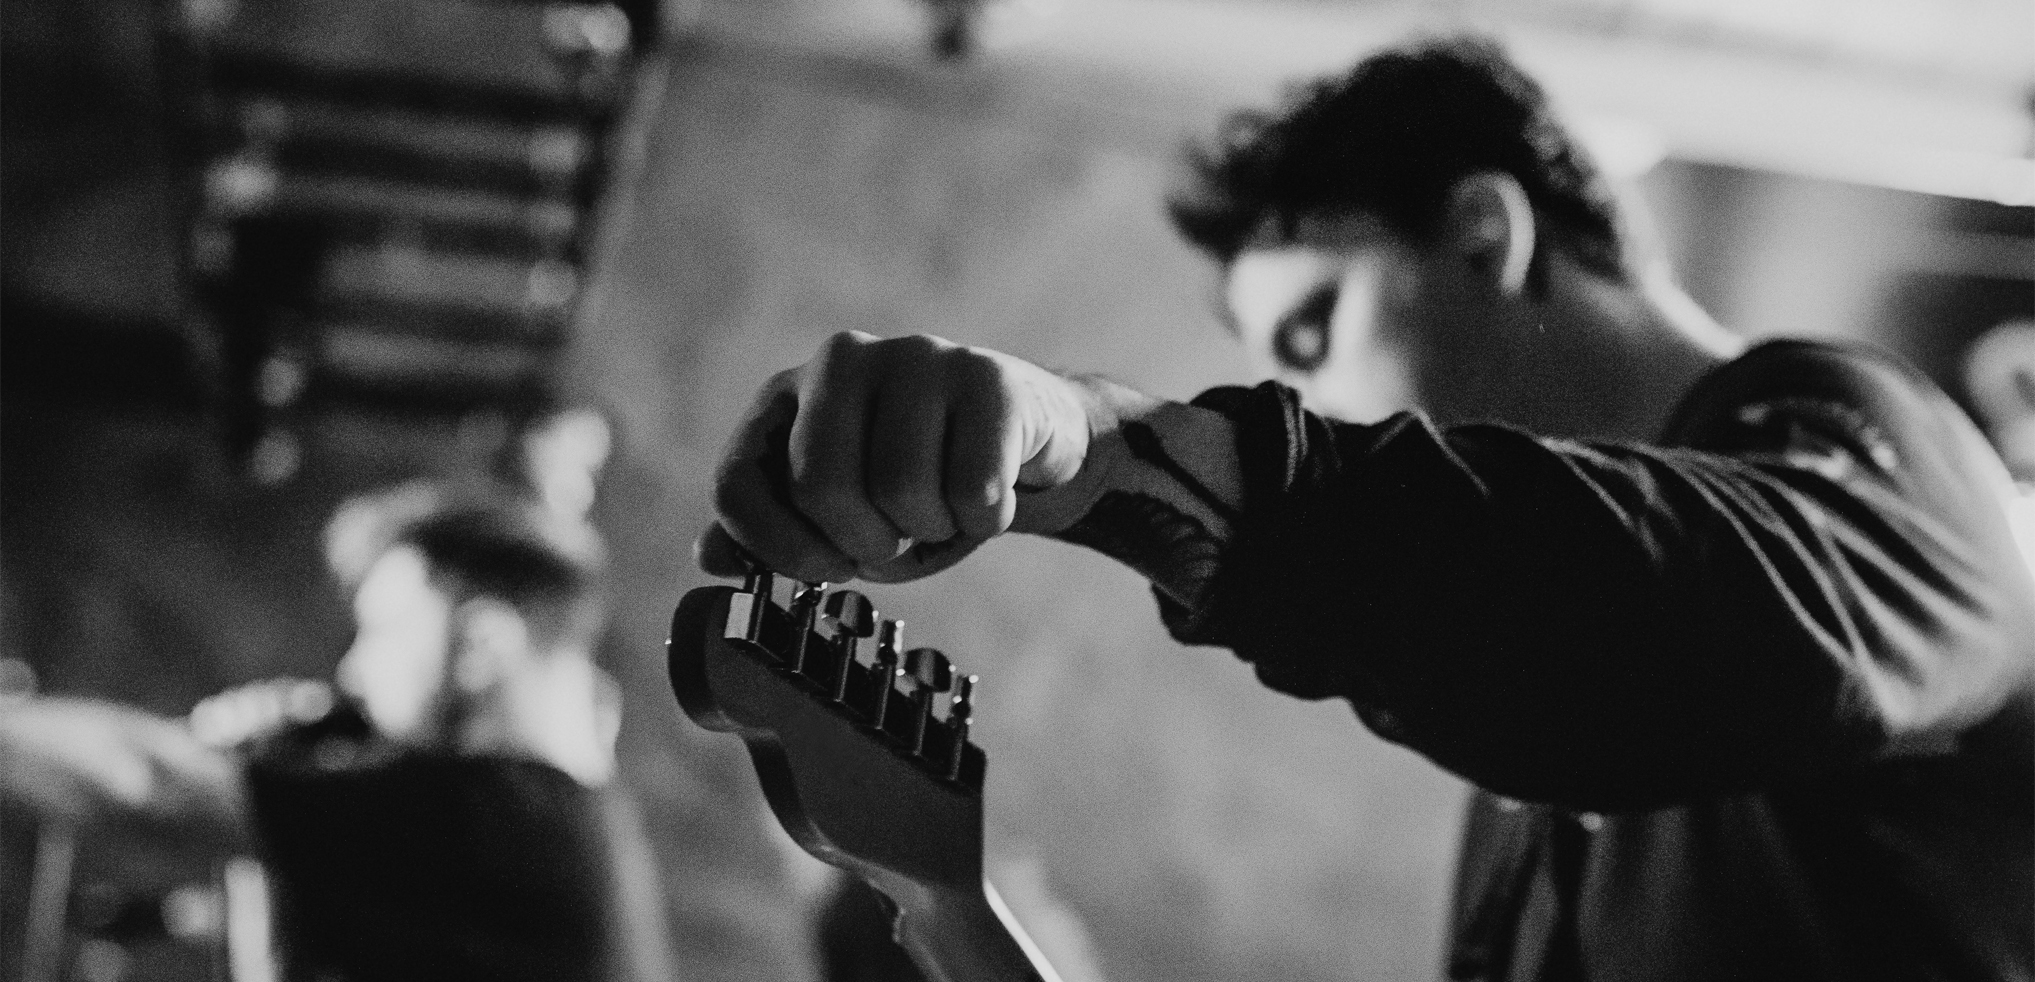
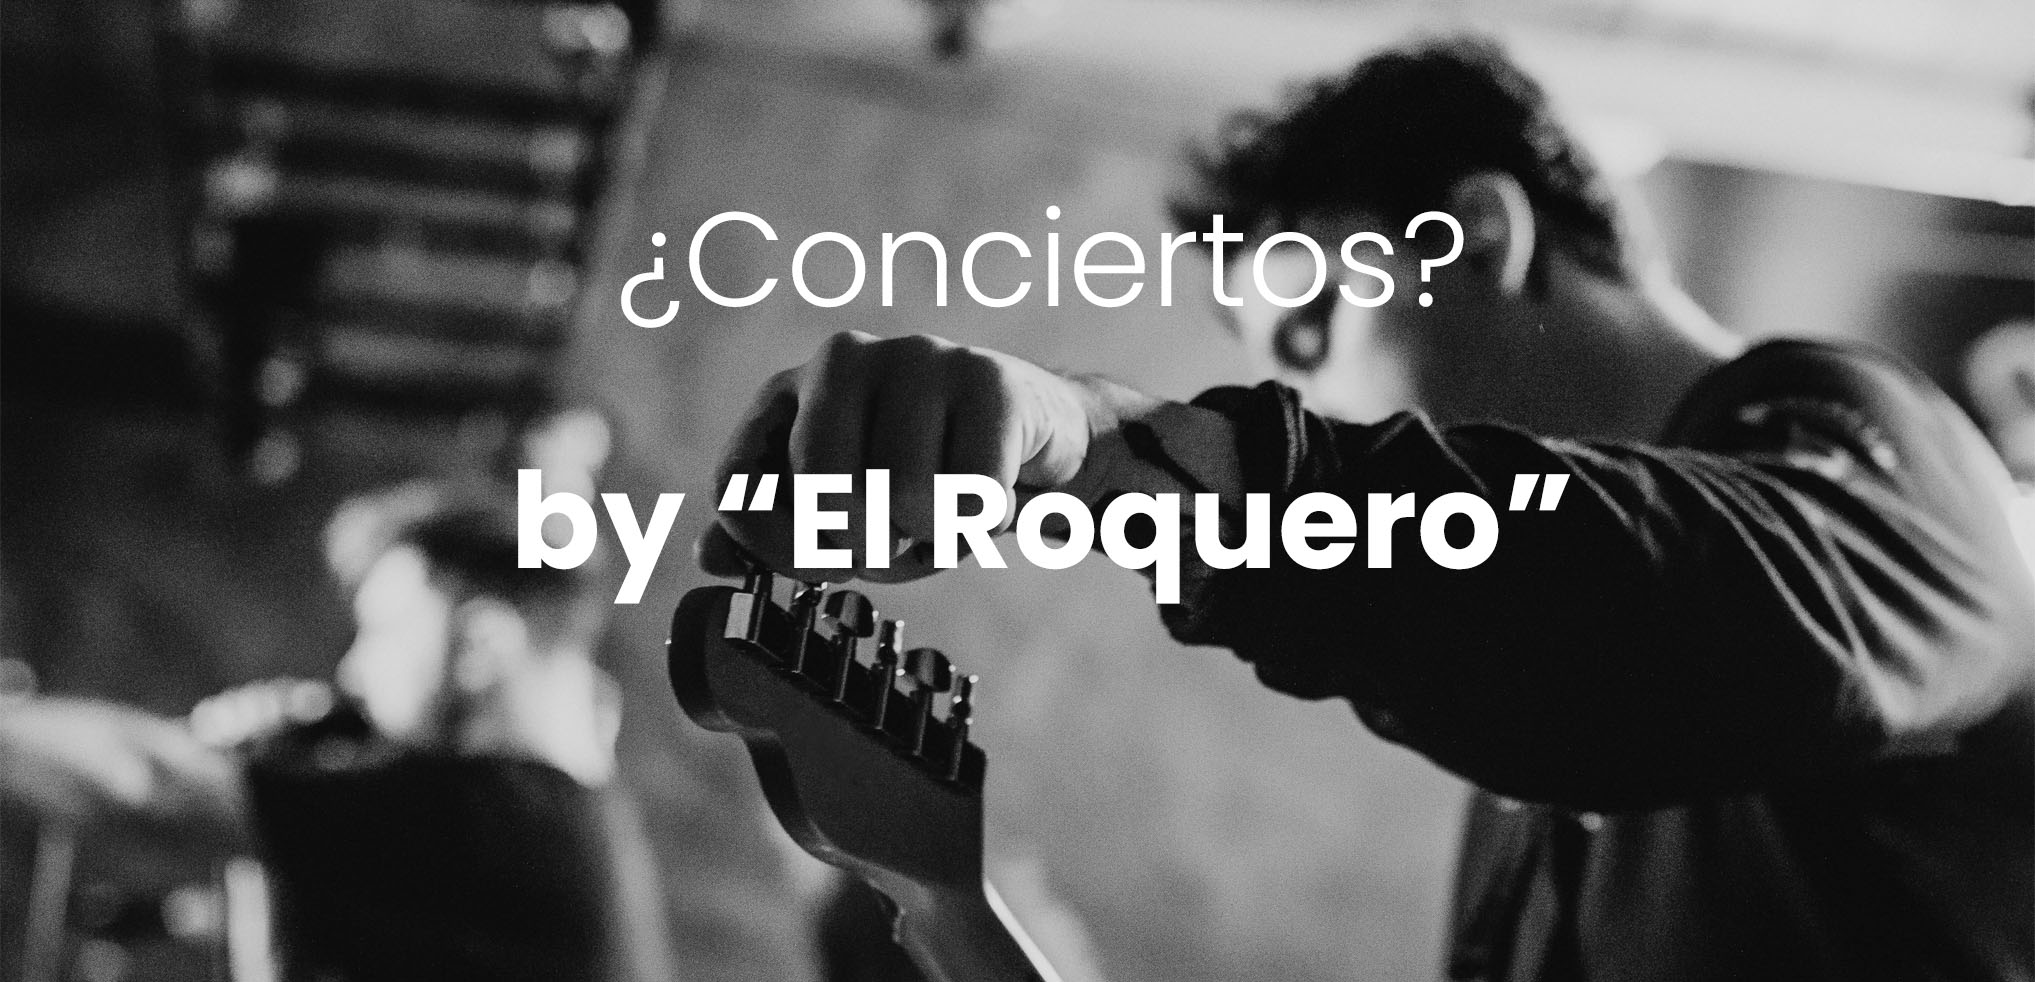
update

Changed region(s): [[0.2477, 0.4582, 0.774, 0.611], [0.3096, 0.2138, 0.743, 0.336]]

diff --git a/src/blog.html b/src/blog.html
@@ -4,93 +4,104 @@
   <head>
     <meta charset="utf-8">
     <meta name="viewport" content="width=device-width, initial-scale=1.0">
+    <link rel="preconnect" href="https://fonts.gstatic.com">
+<link href="https://fonts.googleapis.com/css2?family=Limelight&family=Montserrat:wght@100;400;500;700&display=swap" rel="stylesheet">
     <link rel="stylesheet" type="text/css" href="./assets/styles/main.scss"><!-- do not remove this line! -->
     <title>Blog</title>
   </head>
   <body class="main-blog">
-      <header class="header-nav">
-<div>
-    <a href="index.html"><div class="logo-container-b">
+    <header >
+        <div>
+            <a href="index.html">
+                <div class="grid grid-cols-3">
+                    <div></div>
+                    <div class="flex">
+                        <div class="m-auto mr-0"><img class="h-20 min-h-full" src="assets/images/image-from-rawpixel-id-2888725-png.png" alt=""></div>
+                        <div class="m-auto ml-0 "><h1 class="text-3xl font-Limelight">Rockers</h1></div>
+                    </div>
+                </div>
+                </a>
+        </div>
+            <nav class="grid grid-cols-4 justify-items-center m-5">
+                <div></div>
+                <a class="nav-b" href="index.html">MIEMBROS</a>
+                <a class="nav-b" href="blog.html">BLOG</a>
+                <div></div>
 
-            <img class="logo" src="assets/images/image-from-rawpixel-id-2888725-png.png" alt="">
-            <h1 class="logo-title">Rockers</h1>
-
-
-    </div></a>
-    <nav class="nav-b">
-        <a class="nav-b" href="index.html">MIEMBROS</a>
-        <a class="nav-b" href="blog.html">BLOG</a>
-
-    </nav>
-</div>
-      </header>
+            </nav>
+        </div>
+              </header>
 
     <main>
 
 
-        <div class="container-img">
-          <img class="img-blog" src="assets/images/image-from-rawpixel-id-2273383-jpeg.jpg" alt="blog">
-          <div class="center-img">¿Conciertos?</div>
-          <div class="subcenter-img">by El Roquero</div>
+        <div class="mb-11">
+          <img class="img-blog" src="assets/images/image-from-rawpixel-id-2273383-jpeg (1).jpg" alt="blog">
         </div>
 
-        <div class="container-blog">
-            <p>
+        <div class="lg:mx-80 md:mx-40 sm:mx-15">
+            <p class="my-5">
                 A través de un comunicado en sus redes sociales, Robe Iniesta ha anunciado a los fans de Extremoduro que la gira de despedida del grupo queda cancelada definitivamente: “Dije que tocaríamos por cojones, pero ahora ya no estoy tan seguro”. La idea de que estos conciertos se retomen ha quedado muy en el aire: “No tiene sentido volver a poner fechas para 2022 sin tener la más mínima seguridad de que se vaya a poder hacer”.
             </p>
-            <p>
+            <p class="my-5">
                 Una de las bombas del comunicado, sin duda, es el nuevo disco del cantante de la banda que estaba previsto que viera la luz en octubre del año pasado, después del final de la gira y, que debido a los aplazamientos que ha sufrido esta, Robe ha guardado en secreto hasta ahora: “¿Hasta cuando lo vamos a dejar guardado, otro año o quién sabe si más aún?” Ha confirmado que sacará su nuevo trabajo durante la primavera y que será necesario adaptarse a las circunstancias realizando conciertos más pequeños que cumplan con la normativa de la Covid-19.
             </p>
 
-            <img class="img-blog-container" src="assets/images/image-from-rawpixel-id-1514-jpeg.jpg" alt="">
+            <img class="my-10" src="assets/images/image-from-rawpixel-id-1514-jpeg.jpg" alt="">
 
-            <p>
+            <p class="my-5">
                 A lo largo del día de hoy, la noticia de la cancelación de la gira de Extremoduro ha corrido como la pólvora. Infinidad de medios se han hecho eco y la banda ha llegado a ser Trendic Topic en España. Una noticia triste para todos los fans del grupo y para la música española en general.
             </p>
-            <figure>
-                <blockquote class="blockquote">
-                  <p>La música es mi religión.</p>
-                </blockquote>
-                <figcaption class="blockquote-footer">
-                    Jimmy Hendrix <cite title="Source Title">guitarrista y cantante</cite>
-                </figcaption>
-              </figure>
 
-              <p>
+              <div class="min-w-0 p-4 bg-white rounded-lg shadow-xs dark:bg-gray-800 border">
+                <h4 class="mb-4 font-semibold text-gray-600 dark:text-gray-300">
+                    La música es mi religión.
+                </h4>
+                <p class="text-gray-600 dark:text-gray-400">
+                    <figcaption class="blockquote-footer">
+                        Jimmy Hendrix. <cite title="Source Title">guitarrista y cantante</cite>
+                    </figcaption>
+                </p>
+              </div>
+
+
+              <p class="my-5">
                 Pero, sin lugar a duda, lo más comentado y sorprendente ha sido el comunicado que ha ofrecido Live Nation, la empresa promotora de la gira, dónde explica que la decisión ha sido tomada unilateralmente por Robe Iniesta: “Queremos manifestaros nuestra sorpresa e incredulidad ante el comunicado unilateral emitido por Robe frente a los compromisos firmes de Extremoduro y su representante… cuando en el mismo anuncia la publicación de su disco y conciertos en solitario”. Añaden también que “estamos trabajando intensamente para aclarar la situación”.
             </p>
 
-            <p>
+            <p class="my-5">
                 Esta controversia surgida entre la banda extremeña y la promotora Live Nation preocupa mucho a los fans que compraron entradas para los espectáculos, ya que en ningún momento se menciona el posible reembolso del dinero. Muchos ya se han puesto manos a la obra y han escrito formalmente a la empresa responsable para pedir explicaciones.
             </p>
 
         </div>
 
     </main>
-    <footer>
-        <hr>
-        <div class="subfooter">
-            <p>Contacta con nosotros para contrataciones</p>
-        </div>
-        <hr>
-        <div class="nav-b">
+    <hr>
+  <footer>
+      <div class="m-5">
+          <p class="text-center">Contacta con nosotros para contrataciones</p>
+      </div>
+      <hr>
+      <nav class="grid grid-cols-4 justify-items-center m-5">
+        <div></div>
+        <a class="nav-b" href="index.html">MIEMBROS</a>
+        <a class="nav-b" href="blog.html">BLOG</a>
+        <div></div>
 
-            <a class="nav-b" href="index.html">MIEMBROS</a>
-            <a class="nav-b" href="blog.html">BLOG</a>
+    </nav>
+      <div class="flex justify-center m-5">
+          <svg class="m-5" xmlns="http://www.w3.org/2000/svg" width="16" height="16" fill="currentColor" class="bi bi-google" viewBox="0 0 16 16">
+              <path d="M15.545 6.558a9.42 9.42 0 0 1 .139 1.626c0 2.434-.87 4.492-2.384 5.885h.002C11.978 15.292 10.158 16 8 16A8 8 0 1 1 8 0a7.689 7.689 0 0 1 5.352 2.082l-2.284 2.284A4.347 4.347 0 0 0 8 3.166c-2.087 0-3.86 1.408-4.492 3.304a4.792 4.792 0 0 0 0 3.063h.003c.635 1.893 2.405 3.301 4.492 3.301 1.078 0 2.004-.276 2.722-.764h-.003a3.702 3.702 0 0 0 1.599-2.431H8v-3.08h7.545z"/>
+            </svg>
+            <svg class="m-5" xmlns="http://www.w3.org/2000/svg" width="16" height="16" fill="currentColor" class="bi bi-linkedin" viewBox="0 0 16 16">
+              <path d="M0 1.146C0 .513.526 0 1.175 0h13.65C15.474 0 16 .513 16 1.146v13.708c0 .633-.526 1.146-1.175 1.146H1.175C.526 16 0 15.487 0 14.854V1.146zm4.943 12.248V6.169H2.542v7.225h2.401zm-1.2-8.212c.837 0 1.358-.554 1.358-1.248-.015-.709-.52-1.248-1.342-1.248-.822 0-1.359.54-1.359 1.248 0 .694.521 1.248 1.327 1.248h.016zm4.908 8.212V9.359c0-.216.016-.432.08-.586.173-.431.568-.878 1.232-.878.869 0 1.216.662 1.216 1.634v3.865h2.401V9.25c0-2.22-1.184-3.252-2.764-3.252-1.274 0-1.845.7-2.165 1.193v.025h-.016a5.54 5.54 0 0 1 .016-.025V6.169h-2.4c.03.678 0 7.225 0 7.225h2.4z"/>
+            </svg>
+            <svg class="m-5" xmlns="http://www.w3.org/2000/svg" width="16" height="16" fill="currentColor" class="bi bi-facebook" viewBox="0 0 16 16">
+              <path d="M16 8.049c0-4.446-3.582-8.05-8-8.05C3.58 0-.002 3.603-.002 8.05c0 4.017 2.926 7.347 6.75 7.951v-5.625h-2.03V8.05H6.75V6.275c0-2.017 1.195-3.131 3.022-3.131.876 0 1.791.157 1.791.157v1.98h-1.009c-.993 0-1.303.621-1.303 1.258v1.51h2.218l-.354 2.326H9.25V16c3.824-.604 6.75-3.934 6.75-7.951z"/>
+            </svg>
+      </div>
 
-        </div>
-        <div class="footer-social-blog">
-            <svg xmlns="http://www.w3.org/2000/svg" width="16" height="16" fill="currentColor" class="bi bi-google" viewBox="0 0 16 16">
-                <path d="M15.545 6.558a9.42 9.42 0 0 1 .139 1.626c0 2.434-.87 4.492-2.384 5.885h.002C11.978 15.292 10.158 16 8 16A8 8 0 1 1 8 0a7.689 7.689 0 0 1 5.352 2.082l-2.284 2.284A4.347 4.347 0 0 0 8 3.166c-2.087 0-3.86 1.408-4.492 3.304a4.792 4.792 0 0 0 0 3.063h.003c.635 1.893 2.405 3.301 4.492 3.301 1.078 0 2.004-.276 2.722-.764h-.003a3.702 3.702 0 0 0 1.599-2.431H8v-3.08h7.545z"/>
-              </svg>
-              <svg xmlns="http://www.w3.org/2000/svg" width="16" height="16" fill="currentColor" class="bi bi-linkedin" viewBox="0 0 16 16">
-                <path d="M0 1.146C0 .513.526 0 1.175 0h13.65C15.474 0 16 .513 16 1.146v13.708c0 .633-.526 1.146-1.175 1.146H1.175C.526 16 0 15.487 0 14.854V1.146zm4.943 12.248V6.169H2.542v7.225h2.401zm-1.2-8.212c.837 0 1.358-.554 1.358-1.248-.015-.709-.52-1.248-1.342-1.248-.822 0-1.359.54-1.359 1.248 0 .694.521 1.248 1.327 1.248h.016zm4.908 8.212V9.359c0-.216.016-.432.08-.586.173-.431.568-.878 1.232-.878.869 0 1.216.662 1.216 1.634v3.865h2.401V9.25c0-2.22-1.184-3.252-2.764-3.252-1.274 0-1.845.7-2.165 1.193v.025h-.016a5.54 5.54 0 0 1 .016-.025V6.169h-2.4c.03.678 0 7.225 0 7.225h2.4z"/>
-              </svg>
-              <svg xmlns="http://www.w3.org/2000/svg" width="16" height="16" fill="currentColor" class="bi bi-facebook" viewBox="0 0 16 16">
-                <path d="M16 8.049c0-4.446-3.582-8.05-8-8.05C3.58 0-.002 3.603-.002 8.05c0 4.017 2.926 7.347 6.75 7.951v-5.625h-2.03V8.05H6.75V6.275c0-2.017 1.195-3.131 3.022-3.131.876 0 1.791.157 1.791.157v1.98h-1.009c-.993 0-1.303.621-1.303 1.258v1.51h2.218l-.354 2.326H9.25V16c3.824-.604 6.75-3.934 6.75-7.951z"/>
-              </svg>
-        </div>
-    </footer>
+  </footer>
 
 
 <script src="./assets/scripts/main.js"></script><!-- do not remove this line! -->

diff --git a/src/index.html b/src/index.html
@@ -39,57 +39,83 @@
 
 
 
-      <div class="grid grid-cols-3">
-        <div class="item item1">
-          <div class="card" style="width: 18rem;">
-              <img src="assets/images/guita1.jpeg" class="card-img-top" alt="...">
-              <div class="card-body">
-                <p class="card-text">Juan es uno de los mejores guitarristas de la banda y de su edificio</p>
+     <div class="grid lg:grid-cols-3 md:grid-cols-2 sm:grid-cols-1">
+
+        <div class="w-1/2 m-auto pb-12">
+            <div class="bg-white shadow rounded-lg border">
+              <img class="rounded-t-lg shadow"src="assets/images/guita1.jpeg">
+              <div class="p-5 text-gray-600">
+
+                <p class="pt-1 text-gray-500 font-semibold">
+                  Juan es uno de los mejores guitarristas de la banda y de su edificio
+                </p>
               </div>
             </div>
-        </div>
-        <div class="item item2">
-          <div class="card" style="width: 18rem;">
-              <img src="assets/images/guita2.jpeg" class="card-img-top" alt="...">
-              <div class="card-body">
-                <p class="card-text">José es uno de los mejores guitarristas de la banda y de su edificio</p>
+          </div>
+
+        <div class="w-1/2 m-auto pb-12">
+            <div class="bg-white shadow rounded-lg border">
+              <img class="rounded-t-lg shadow"src="assets/images/guita2.jpeg">
+              <div class="p-5 text-gray-600">
+
+                <p class="pt-1 text-gray-500 font-semibold">
+                  José es uno de los mejores guitarristas de la banda y de su edificio
+                </p>
               </div>
             </div>
-        </div>
-        <div class="item item3">
-          <div class="card" style="width: 18rem;">
-              <img src="assets/images/guita3.jpeg" class="card-img-top" alt="...">
-              <div class="card-body">
-                <p class="card-text">Carlos es uno de los mejores guitarristas de la banda y de su edificio</p>
+          </div>
+
+        <div class="w-1/2 m-auto pb-12">
+            <div class="bg-white shadow rounded-lg border">
+              <img class="rounded-t-lg shadow"src="assets/images/guita3.jpeg">
+              <div class="p-5 text-gray-600">
+
+                <p class="pt-1 text-gray-500 font-semibold">
+                  Carlos es uno de los mejores guitarristas de la banda y de su edificio
+                </p>
               </div>
             </div>
-        </div>
+          </div>
 
 
-        <div class="item item4">
-          <div class="card" style="width: 18rem;">
-              <img src="assets/images/guita4.jpeg" class="card-img-top" alt="...">
-              <div class="card-body">
-                <p class="card-text">Raúl es uno de los mejores guitarristas de la banda y de su edificio</p>
+
+        <div class="w-1/2 m-auto pb-12">
+            <div class="bg-white shadow rounded-lg border">
+              <img class="rounded-t-lg shadow"src="assets/images/guita4.jpeg">
+              <div class="p-5 text-gray-600">
+
+                <p class="pt-1 text-gray-500 font-semibold">
+                  Raúl es uno de los mejores guitarristas de la banda y de su edificio
+                </p>
               </div>
             </div>
-        </div>
-        <div class="item item5">
-          <div class="card" style="width: 18rem;">
-              <img src="assets/images/guita5.jpeg" class="card-img-top" alt="...">
-              <div class="card-body">
-                <p class="card-text">Pablo es uno de los mejores guitarristas de la banda y de su edificio</p>
+          </div>
+
+        <div class="w-1/2 m-auto pb-12">
+            <div class="bg-white shadow rounded-lg border">
+              <img class="rounded-t-lg shadow"src="assets/images/guita5.jpeg">
+              <div class="p-5 text-gray-600">
+
+                <p class="pt-1 text-gray-500 font-semibold">
+                  Pablo es uno de los mejores guitarristas de la banda y de su edificio
+                </p>
               </div>
             </div>
-        </div>
-        <div class="item item6">
-          <div class="card" style="width: 18rem;">
-              <img src="assets/images/guita6.jpeg" class="card-img-top" alt="...">
-              <div class="card-body">
-                <p class="card-text">Pedro es uno de los mejores guitarristas de la banda y de su edificio</p>
+          </div>
+
+
+            <div class="w-1/2 m-auto pb-12">
+              <div class="bg-white shadow rounded-lg border">
+                <img class="rounded-t-lg shadow"src="assets/images/guita6.jpeg">
+                <div class="p-5 text-gray-600">
+
+                  <p class="pt-1 text-gray-500 font-semibold">
+                    Pedro es uno de los mejores guitarristas de la banda y de su edificio
+                  </p>
+                </div>
               </div>
             </div>
-        </div>
+
       </div>
   </div>
   <hr>

diff --git a/tailwind.config.js b/tailwind.config.js
@@ -234,6 +234,8 @@ module.exports = {
       DEFAULT: '1',
     },
     fontFamily: {
+      'montserrat-regular': ['montserrat','sans-serif'],
+      'Limelight': ['Limelight','sans-serif'],
       sans: [
         'ui-sans-serif',
         'system-ui',
